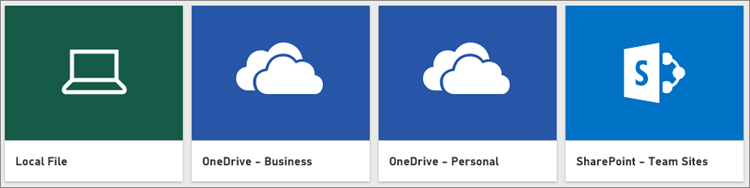
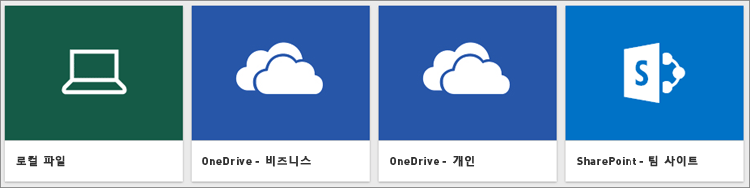
commit translated contents

diff --git a/powerbi-docs/admin/service-premium-what-is.md b/powerbi-docs/admin/service-premium-what-is.md
@@ -7,15 +7,15 @@ ms.reviewer: ''
 ms.service: powerbi
 ms.subservice: powerbi-admin
 ms.topic: conceptual
-ms.date: 03/26/2020
+ms.date: 05/15/2020
 ms.custom: seodec18
 LocalizationGroup: Premium
-ms.openlocfilehash: c206e35651ef28c03151c6c5af8e5bae453d5d2b
-ms.sourcegitcommit: 0e9e211082eca7fd939803e0cd9c6b114af2f90a
+ms.openlocfilehash: 290174f7848e4518a4b1489d0a90136e86d245da
+ms.sourcegitcommit: 6ba7cc9afaf91229f717374bc0c12f0b8201d15e
 ms.translationtype: HT
 ms.contentlocale: ko-KR
-ms.lasthandoff: 05/13/2020
-ms.locfileid: "83274377"
+ms.lasthandoff: 05/16/2020
+ms.locfileid: "83438249"
 ---
 # <a name="what-is-power-bi-premium"></a>Power BI Premium이란?
 
@@ -59,6 +59,7 @@ Power BI Premium을 사용하면 *전용 용량*을 가져올 수 있습니다. 
 * Excel 통합 문서(데이터를 Power BI Desktop으로 먼저 가져오는 경우 제외)
 * [푸시 데이터 세트](/rest/api/power-bi/pushdatasets)
 * [스트리밍 데이터 세트](../connect-data/service-real-time-streaming.md#set-up-your-real-time-streaming-dataset-in-power-bi)
+* [질문 및 답변](../create-reports/power-bi-tutorial-q-and-a.md)
 
 작업 영역은 용량 내에 상주합니다. 각 Power BI 사용자는 **내 작업 영역**이라는 개인 작업 영역을 갖습니다. 협업을 사용하도록 설정하기 위해 **작업 영역**이라는 추가 작업 영역을 만들 수 있습니다. 기본적으로 개인 작업 영역을 포함한 작업 영역은 공유 용량에서 생성됩니다. 프리미엄 용량이 있는 경우 내 작업 영역 및 작업 영역을 모두 프리미엄 용량에 할당할 수 있습니다.
 
@@ -68,7 +69,7 @@ Power BI Premium을 사용하면 *전용 용량*을 가져올 수 있습니다. 
 
 프로세싱은 백 엔드와 프런트 엔드 간에 균등하게 나누어진 v 코어의 세트 수에 의해 이루어집니다.
 
-**백 엔드 V 코어**는 쿼리 처리, 캐시 관리, R 서비스 실행, 모델 새로 고침, 자연어 처리(Q&A), 보고서 및 이미지의 서버 쪽 렌더링 비롯한 핵심 Power BI 기능을 담당합니다. 백 엔드 V 코어에는 활성 데이터 세트라고도 하는 모델을 호스팅하는 데 주로 사용되는 고정된 양의 메모리가 할당됩니다.
+**백 엔드 V 코어**는 쿼리 처리, 캐시 관리, R Services 실행, 모델 새로 고침, 보고서 및 이미지의 서버 쪽 렌더링 등을 비롯한 핵심 Power BI 기능을 담당합니다. 백 엔드 V 코어에는 활성 데이터 세트라고도 하는 모델을 호스팅하는 데 주로 사용되는 고정된 양의 메모리가 할당됩니다.
 
 **프런트 엔드 V 코어**는 웹 서비스, 대시보드 및 보고서 문서 관리, 액세스 권한 관리, 예약, API, 업로드 및 다운로드, 일반적으로 사용자 환경과 관련된 모든 항목에 책임이 있습니다.
 
